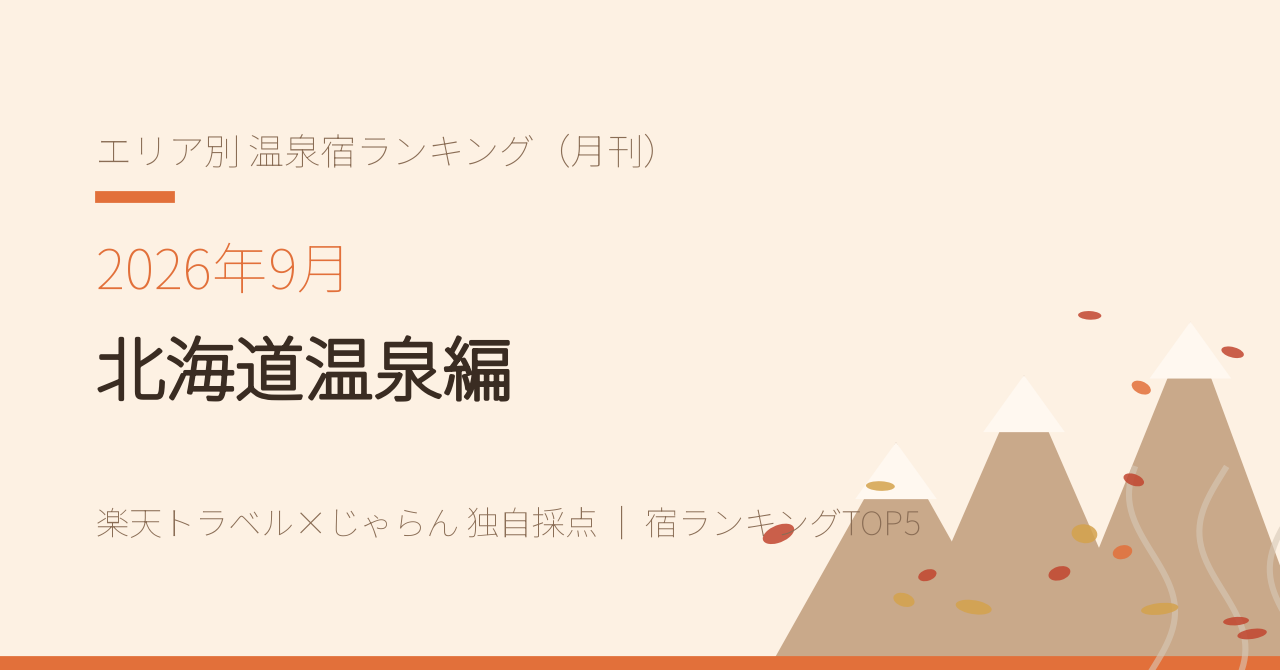
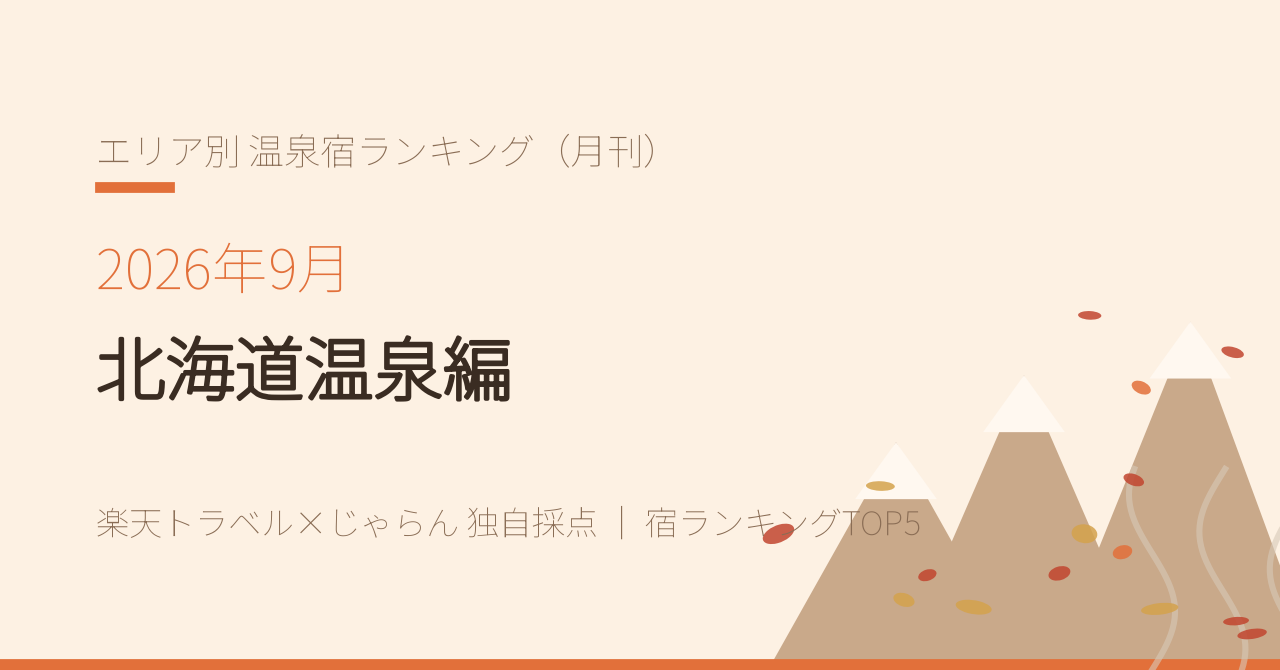
feat(4-onsen): サムネイルをInstagram用4:5サイズでも生成
make_eyecatch.py が note用(1280x670)とIG用(eyecatch-ig.png, 4:5・1080x1350)を
両方出力するように変更。IG版は雪山モチーフを下部いっぱいに配置した縦長レイアウト。
9月号のIG告知は eyecatch-ig.png を使う。

Changed region(s): [[0.0, 0.9552, 1.0, 0.9851], [0.0625, 0.2687, 0.1562, 0.3284]]

diff --git a/dev/4-onsen/assets/make_eyecatch.py b/dev/4-onsen/assets/make_eyecatch.py
@@ -1,14 +1,15 @@
 #!/usr/bin/env python3
-"""各号（各エリア）のnote見出し画像（サムネイル）を生成する。
+"""各号（各エリア）のnote見出し画像／Instagram用画像を生成する。
 
 使い方:
-  python make_eyecatch.py                              → 北海道編を assets/2026-09/eyecatch.png に生成
-  python make_eyecatch.py "2026年11月" "東北編" assets/2026-11/eyecatch.png [motif]
+  python make_eyecatch.py                                      → 北海道編を両サイズ生成
+  python make_eyecatch.py "2026年11月" "東北編" assets/2026-11 [motif]
+      → assets/2026-11/eyecatch.png（note 1280x670）と eyecatch-ig.png（IG 1080x1350）
 
 motif はエリアを連想させる簡単な自作イラスト（写真は著作権リスクがあるため使わない）。
 現状用意しているのは "hokkaido"（雪山＋紅葉＋湯気）のみ。他エリアは追加時にモチーフを増やす。
 
-1280x670（note推奨 1.91:1）。マガジン表紙（make_cover.py）と同じ明るい配色。
+配色はマガジン表紙（make_cover.py）と同じ明るい暖色系。
 """
 from __future__ import annotations
 
@@ -37,71 +38,89 @@ BG = "#fdf1e3"
 ACCENT = "#e2703a"
 TITLE = "#3a2c22"
 MUTE = "#8a6d55"
+MOUNTAIN = "#c9a98a"
+SNOW = "#fff8f0"
+LEAF_COLORS = ("#e2703a", "#d4a24c", "#c1452f")
 
 SERIES = "エリア別 温泉宿ランキング（月刊）"
 
 
-def _draw_hokkaido_motif(ax) -> None:
-    """大雪山系の雪山・紅葉・温泉の湯気をイメージした自作イラスト（右側、x=0.60〜）。"""
-    mountain_color = "#c9a98a"
-    snow_color = "#fff8f0"
-    leaf_colors = ["#e2703a", "#d4a24c", "#c1452f"]
+def _snow_peak(ax, base_l, apex, base_r) -> None:
+    ax.add_patch(mpatches.Polygon([base_l, apex, base_r], closed=True,
+                                   facecolor=MOUNTAIN, edgecolor="none", zorder=1))
+    sx, sy = apex
+    ax.add_patch(mpatches.Polygon([(sx - 0.032, sy - 0.085), (sx, sy), (sx + 0.032, sy - 0.085)],
+                                   closed=True, facecolor=SNOW, edgecolor="none", zorder=2))
 
-    peaks = [
-        ((0.60, 0.0), (0.70, 0.34), (0.80, 0.0)),
-        ((0.70, 0.0), (0.80, 0.44), (0.90, 0.0)),
-        ((0.82, 0.0), (0.93, 0.52), (1.03, 0.0)),
-    ]
-    for base_l, apex, base_r in peaks:
-        ax.add_patch(mpatches.Polygon([base_l, apex, base_r], closed=True,
-                                       facecolor=mountain_color, edgecolor="none", zorder=1))
-        sx, sy = apex
-        snow = [(sx - 0.032, sy - 0.085), (sx, sy), (sx + 0.032, sy - 0.085)]
-        ax.add_patch(mpatches.Polygon(snow, closed=True, facecolor=snow_color,
-                                       edgecolor="none", zorder=2))
 
-    rng = random.Random(4)
-    for _ in range(16):
-        x = rng.uniform(0.60, 1.05)
-        y = rng.uniform(0.05, 0.58)
+def _scatter_leaves(ax, seed, xr, yr, n) -> None:
+    rng = random.Random(seed)
+    for _ in range(n):
+        x, y = rng.uniform(*xr), rng.uniform(*yr)
         w = rng.uniform(0.012, 0.02)
-        h = w * rng.uniform(1.4, 1.8)
-        angle = rng.uniform(0, 360)
-        color = rng.choice(leaf_colors)
-        ax.add_patch(mpatches.Ellipse((x, y), w, h, angle=angle, facecolor=color,
+        ax.add_patch(mpatches.Ellipse((x, y), w, w * rng.uniform(1.4, 1.8),
+                                       angle=rng.uniform(0, 360), facecolor=rng.choice(LEAF_COLORS),
                                        edgecolor="none", alpha=0.85, zorder=3))
 
-    for i, x0 in enumerate((0.90, 0.955, 1.01)):
-        ys = np.linspace(0.0, 0.30, 40)
-        xs = x0 + 0.018 * np.sin(ys * 18 + i)
-        ax.plot(xs, ys, color="#d8c9b8", linewidth=2.2, alpha=0.6, zorder=2)
+
+def _steam(ax, x0s, top) -> None:
+    for i, x0 in enumerate(x0s):
+        ys = np.linspace(0.0, top, 40)
+        ax.plot(x0 + 0.018 * np.sin(ys * 18 + i), ys, color="#d8c9b8",
+                linewidth=2.2, alpha=0.6, zorder=2)
 
 
-MOTIFS = {"hokkaido": _draw_hokkaido_motif}
+def _hokkaido_side(ax) -> None:
+    """note用（横長）: 右側に雪山。"""
+    _snow_peak(ax, (0.60, 0.0), (0.70, 0.34), (0.80, 0.0))
+    _snow_peak(ax, (0.70, 0.0), (0.80, 0.44), (0.90, 0.0))
+    _snow_peak(ax, (0.82, 0.0), (0.93, 0.52), (1.03, 0.0))
+    _scatter_leaves(ax, 4, (0.60, 1.05), (0.05, 0.58), 16)
+    _steam(ax, (0.90, 0.955, 1.01), 0.30)
 
 
-def eyecatch(label: str, subtitle: str, out: Path, motif: str | None = None) -> None:
-    W, H = 1280, 670
+def _hokkaido_bottom(ax) -> None:
+    """Instagram用（縦長）: 下部いっぱいに雪山。"""
+    _snow_peak(ax, (-0.05, 0.0), (0.18, 0.30), (0.42, 0.0))
+    _snow_peak(ax, (0.28, 0.0), (0.52, 0.40), (0.78, 0.0))
+    _snow_peak(ax, (0.60, 0.0), (0.85, 0.33), (1.08, 0.0))
+    _scatter_leaves(ax, 7, (0.0, 1.05), (0.05, 0.52), 20)
+    _steam(ax, (0.44, 0.50, 0.56), 0.26)
+
+
+MOTIFS = {"hokkaido": (_hokkaido_side, _hokkaido_bottom)}
+
+
+def _render(label, subtitle, out, motif, size) -> None:
+    if size == "ig":
+        W, H = 1080, 1350
+        y_series, y_tick, y_label, y_sub, y_tag = 0.905, 0.815, 0.745, 0.645, 0.545
+        fs_label, fs_sub, fs_tag = 24, 34, 15
+        tagline = "楽天トラベル×じゃらんの独自採点"
+        motif_idx = 1
+    else:  # note
+        W, H = 1280, 670
+        y_series, y_tick, y_label, y_sub, y_tag = 0.775, 0.715, 0.60, 0.45, 0.22
+        fs_label, fs_sub, fs_tag = 20, 25, 12
+        tagline = "楽天トラベル×じゃらん 独自採点 ｜ 宿ランキングTOP5"
+        motif_idx = 0
+
     fig = plt.figure(figsize=(W / 200, H / 200), dpi=200)
     ax = fig.add_axes([0, 0, 1, 1])
     ax.axis("off")
     ax.set_xlim(0, 1)
     ax.set_ylim(0, 1)
     ax.add_patch(plt.Rectangle((0, 0), 1, 1, color=BG))
-    if motif and motif in MOTIFS:
-        MOTIFS[motif](ax)
-    ax.add_patch(plt.Rectangle((0, 0), 1, 0.02, color=ACCENT))
-    ax.add_patch(plt.Rectangle((0.075, 0.70), 0.06, 0.014, color=ACCENT))
+    if motif in MOTIFS:
+        MOTIFS[motif][motif_idx](ax)
+    ax.add_patch(plt.Rectangle((0, 0), 1, 0.015, color=ACCENT))
+    ax.add_patch(plt.Rectangle((0.075, y_tick), 0.06, 0.012, color=ACCENT))
 
-    ax.text(0.075, 0.775, SERIES, fontsize=13, color=MUTE, va="center")
-    ax.text(0.075, 0.60, label, fontsize=20, color=ACCENT, fontweight="bold", va="center")
-
-    t = ax.text(0.075, 0.45, subtitle, fontsize=25, color=TITLE,
-                fontweight="bold", va="center")
+    ax.text(0.075, y_series, SERIES, fontsize=13, color=MUTE, va="center")
+    ax.text(0.075, y_label, label, fontsize=fs_label, color=ACCENT, fontweight="bold", va="center")
+    t = ax.text(0.075, y_sub, subtitle, fontsize=fs_sub, color=TITLE, fontweight="bold", va="center")
     t.set_path_effects([pe.withStroke(linewidth=1.3, foreground=TITLE)])
-
-    ax.text(0.075, 0.22, "楽天トラベル×じゃらん 独自採点 ｜ 宿ランキングTOP5",
-            fontsize=12, color=MUTE, va="center")
+    ax.text(0.075, y_tag, tagline, fontsize=fs_tag, color=MUTE, va="center")
 
     out.parent.mkdir(parents=True, exist_ok=True)
     fig.savefig(out, dpi=200, facecolor=BG)
@@ -109,14 +128,20 @@ def eyecatch(label: str, subtitle: str, out: Path, motif: str | None = None) -> 
     print("saved:", out)
 
 
+def eyecatch(label: str, subtitle: str, out_dir: Path, motif: str | None = None) -> None:
+    """note用（eyecatch.png）とInstagram用（eyecatch-ig.png）を両方生成する。"""
+    _render(label, subtitle, out_dir / "eyecatch.png", motif, "note")
+    _render(label, subtitle, out_dir / "eyecatch-ig.png", motif, "ig")
+
+
 if __name__ == "__main__":
     here = Path(__file__).parent
     if len(sys.argv) >= 3:
         label, subtitle = sys.argv[1], sys.argv[2]
-        out = Path(sys.argv[3]) if len(sys.argv) >= 4 else here / "eyecatch.png"
+        out_dir = Path(sys.argv[3]) if len(sys.argv) >= 4 else here
         motif = sys.argv[4] if len(sys.argv) >= 5 else None
     else:
         label, subtitle = "2026年9月", "北海道温泉編"
-        out = here / "2026-09" / "eyecatch.png"
+        out_dir = here / "2026-09"
         motif = "hokkaido"
-    eyecatch(label, subtitle, out, motif)
+    eyecatch(label, subtitle, out_dir, motif)

diff --git a/marketing/instagram/queue.md b/marketing/instagram/queue.md
@@ -9,7 +9,7 @@
 ## キュー
 
 - [ ] 2026-09-10 | ストーリーズ | 開発5部 | `dev/5-finance-manga/assets/02/eyecatch.png` | 第2回のリマインド。リンクスティッカーで note へ
-- [ ] 2026-09-06 | 1枚 | 開発4部 | `dev/4-onsen/assets/2026-09/eyecatch.png` | 北海道の温泉宿ランキングTOP5（楽天トラベル×じゃらんの独自採点）。TOP5の宿名を列挙、「良い/残念は口コミの傾向の要約」と明記、プロフィールのリンク誘導、末尾に「（PR）」。ハッシュタグ8個（#温泉宿ランキング 等）
+- [ ] 2026-09-06 | 1枚 | 開発4部 | `dev/4-onsen/assets/2026-09/eyecatch-ig.png`（IG用 4:5・1080x1350） | 北海道の温泉宿ランキングTOP5（楽天トラベル×じゃらんの独自採点）。TOP5の宿名を列挙、「良い/残念は口コミの傾向の要約」と明記、プロフィールのリンク誘導、末尾に「（PR）」。ハッシュタグ8個（#温泉宿ランキング 等）
 
 ## 消化済み（直近のみ残す）
 
